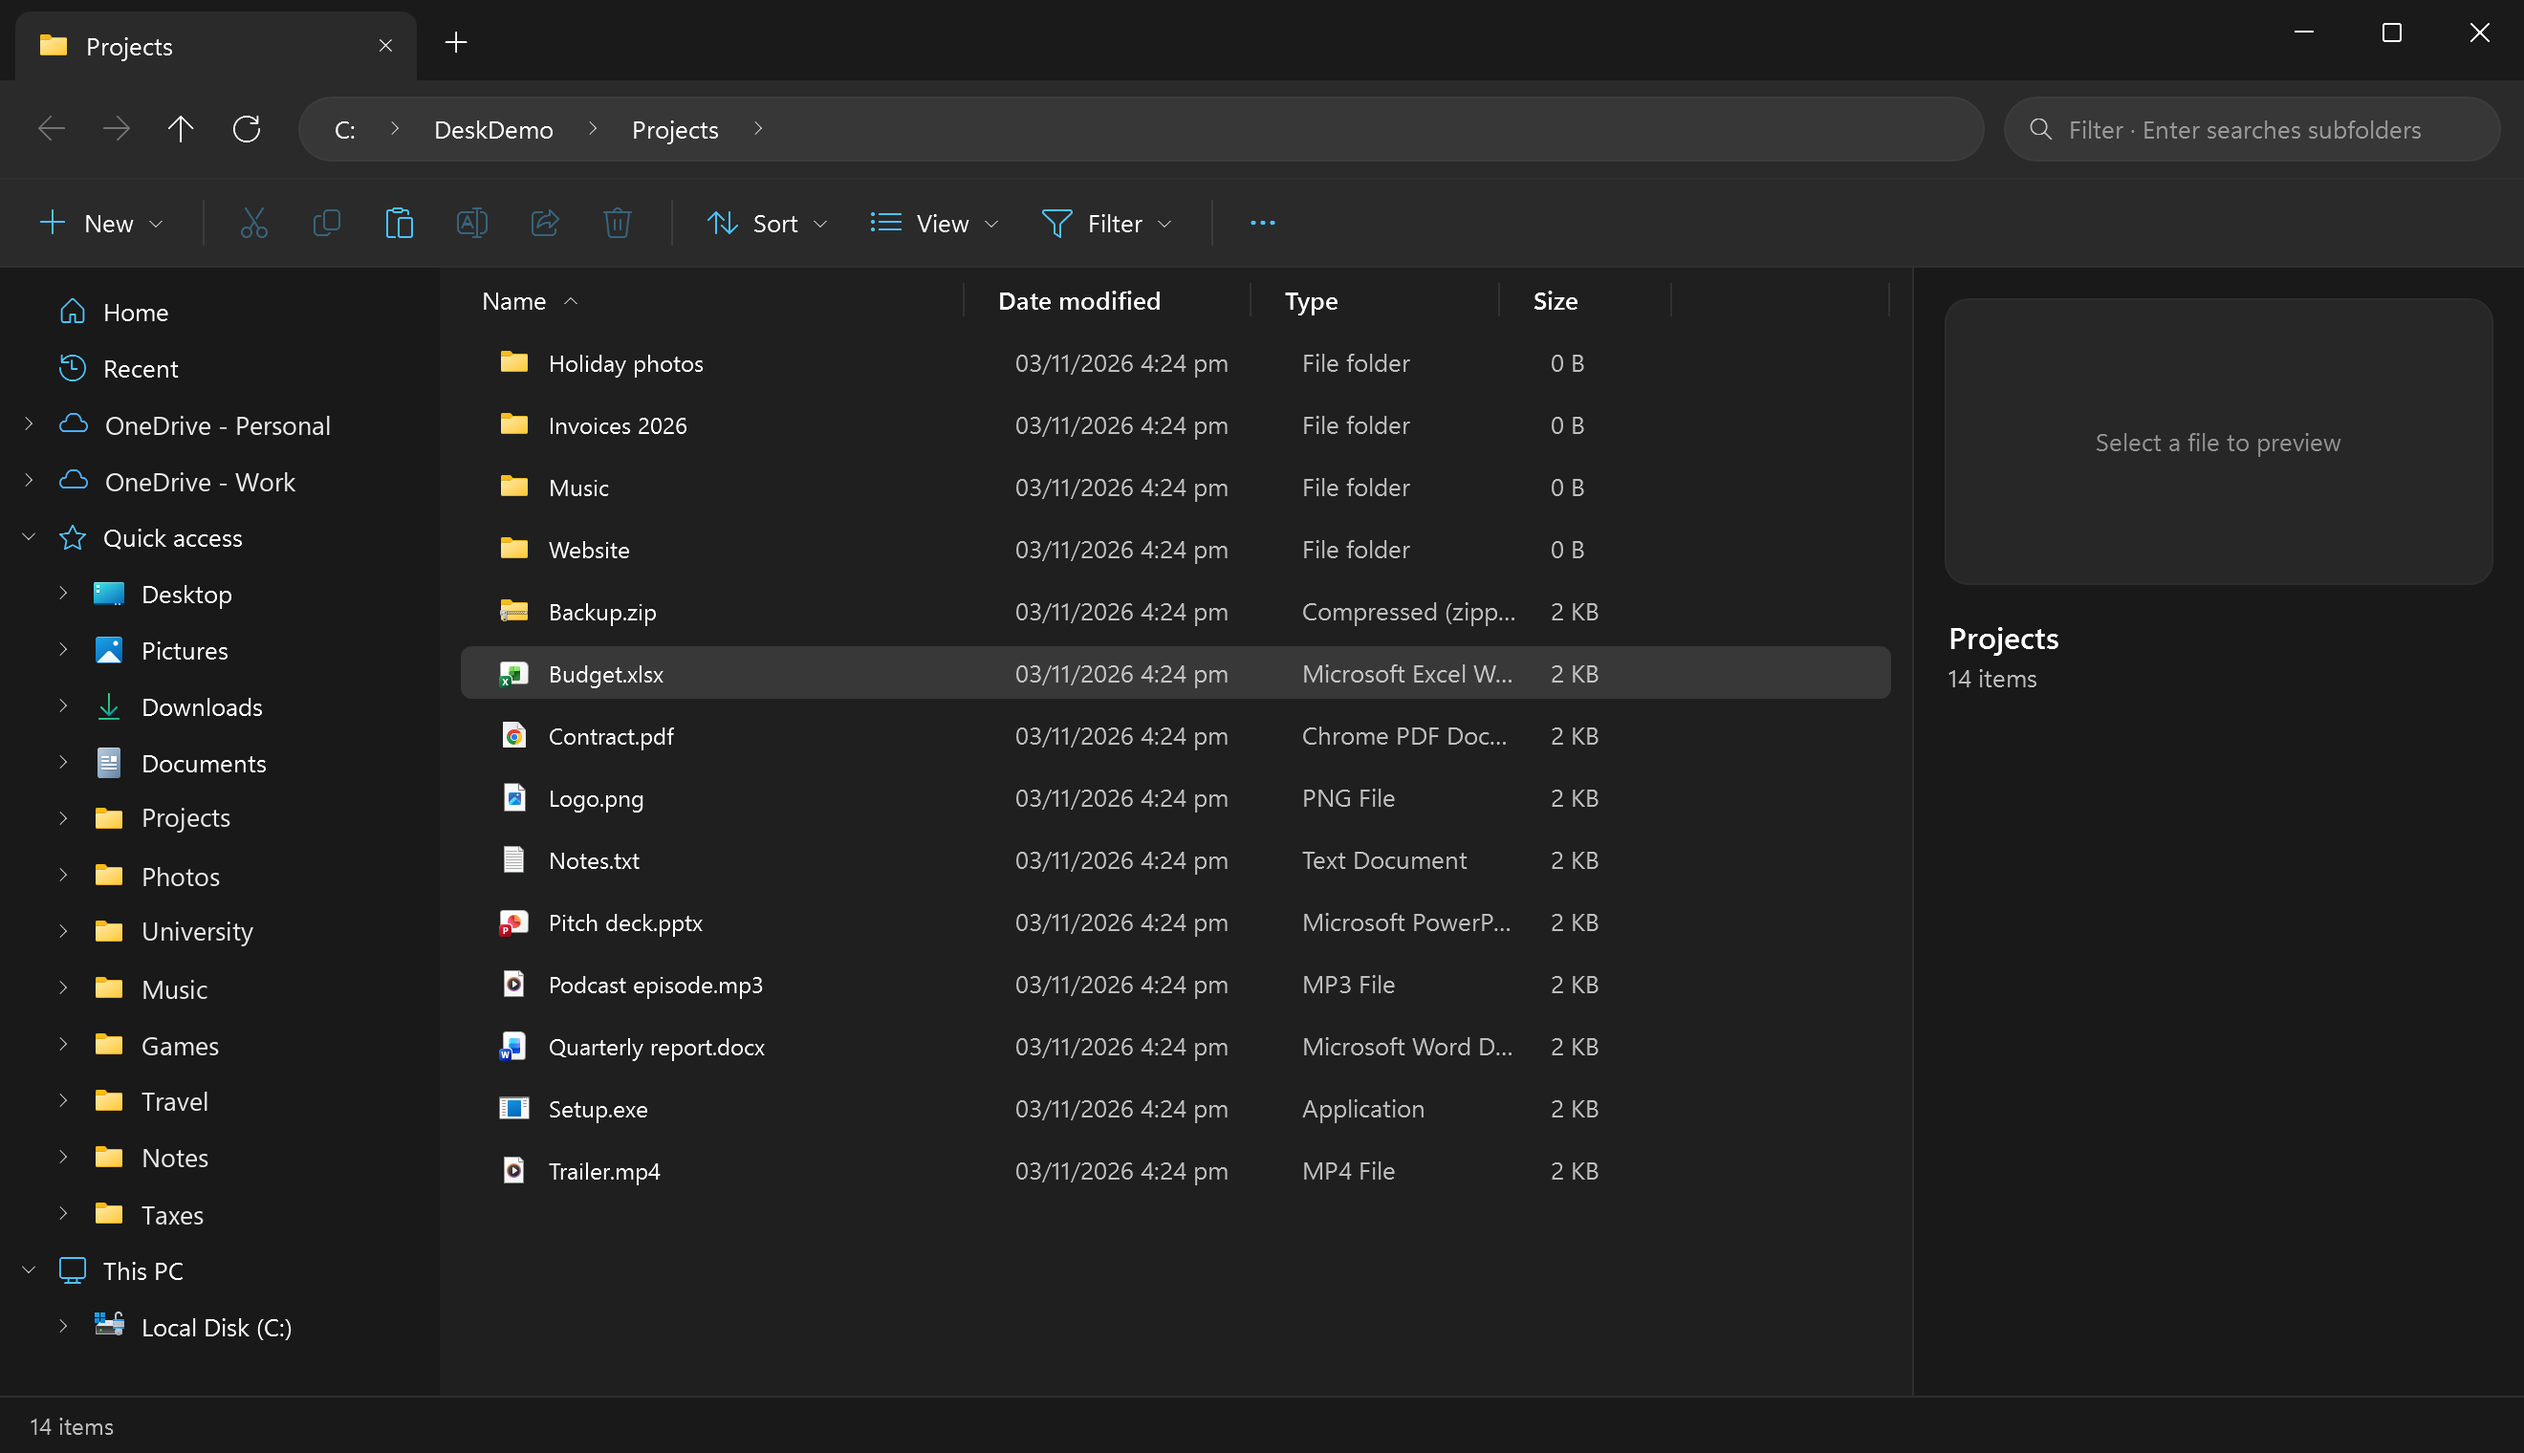
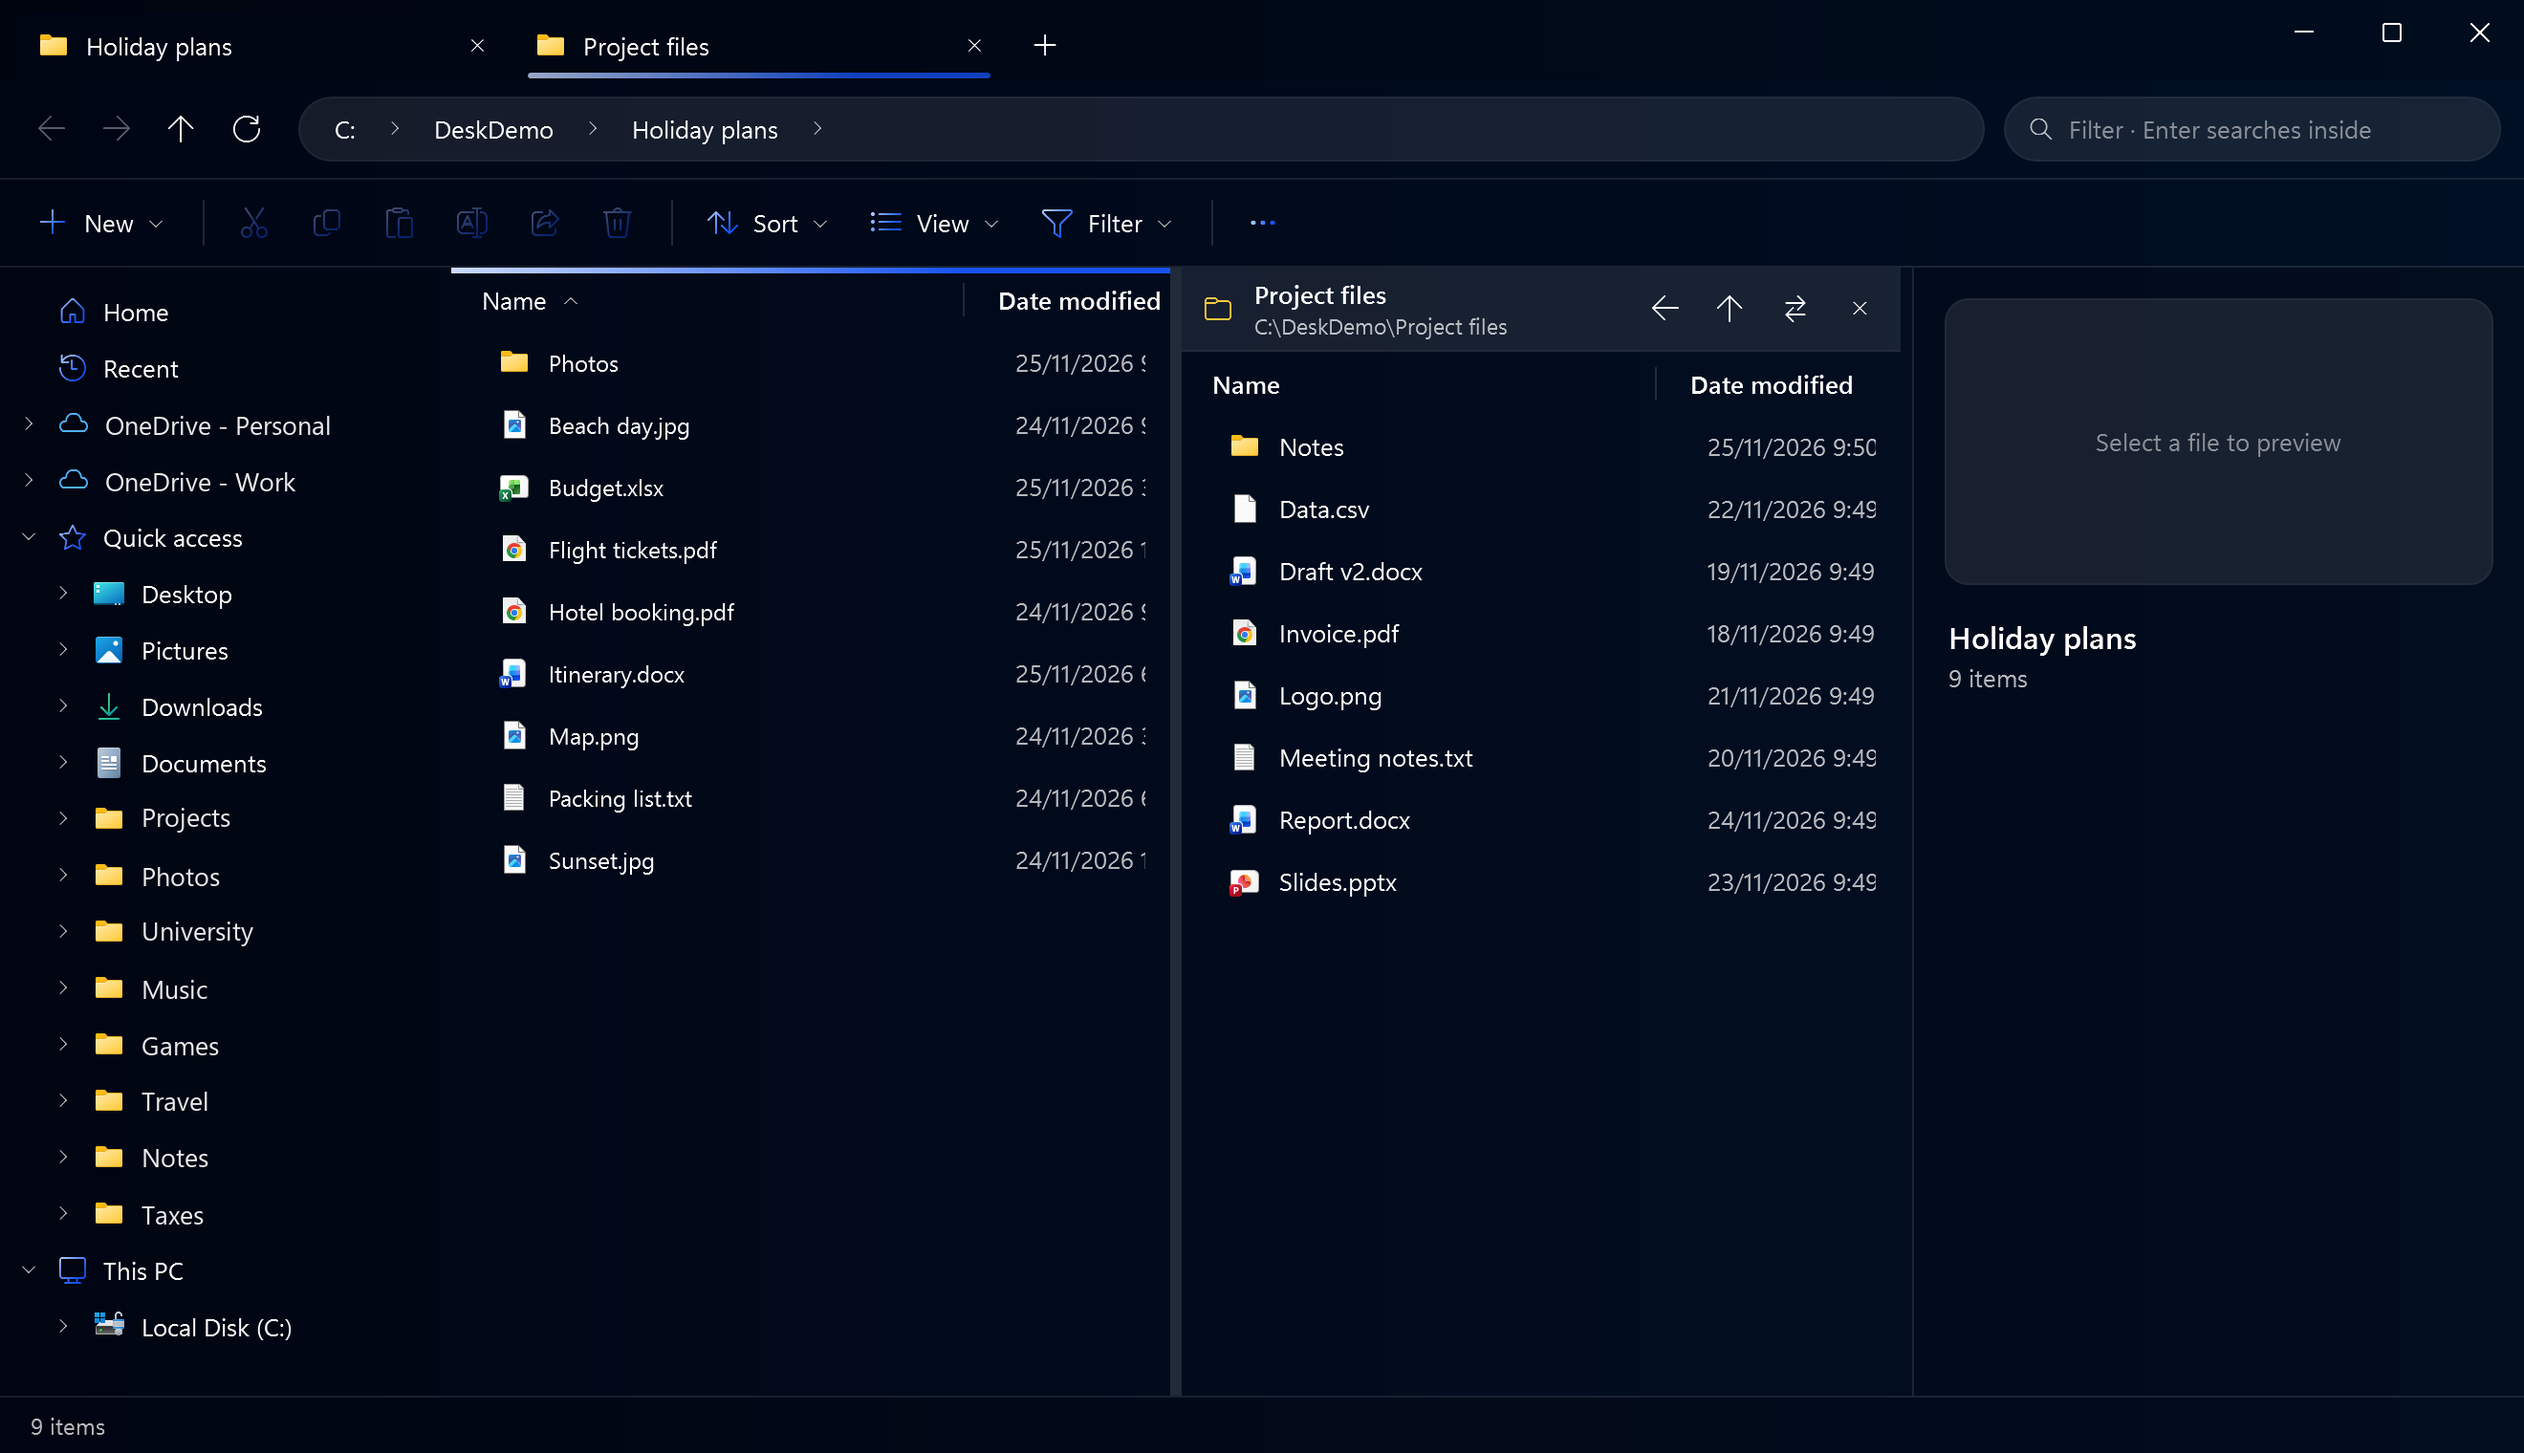
Website: new 4.0 pictures (Start, Quick Settings, DeskDrawer split view, DeskTune) and a "New in Desk 4.0" section

diff --git a/docs/index.html b/docs/index.html
@@ -98,6 +98,12 @@
   .bar { --accent: var(--bar); } .drawer { --accent: var(--drawer); } .tune { --accent: var(--tune); } .mode { --accent: var(--mode); }
   h2 .dot { color: var(--accent); }
   .inline-shot { margin-top: 28px; }
+  .new40 { padding-block: clamp(56px, 7vw, 96px); }
+  .new40 h3 { font: 800 clamp(26px, 3vw, 38px)/1.1 var(--display); margin: 0 0 8px; }
+  .new-grid { display: grid; grid-template-columns: repeat(auto-fit, minmax(min(100%, 300px), 1fr)); gap: 36px; align-items: start; margin-top: 28px; }
+  .new40 figure { margin: 0; } .new40 figure img { width: 100%; height: auto; display: block; }
+  .new40 figure.wide { grid-column: span 2; } @media (max-width: 760px) { .new40 figure.wide { grid-column: auto; } }
+  .new40 figcaption { margin-top: 14px; color: var(--muted); font-size: 15px; line-height: 1.5; } .new40 figcaption b { color: var(--ink); }
   html:not(.live) .story-grid { grid-template-columns: minmax(0, 64ch); }   /* no script: a plain stack, each app with its own screenshot */
   html:not(.live) .chapter { min-height: 0; padding-block: 56px; }
   .live .inline-shot, .stage { display: none; }
@@ -201,7 +207,7 @@
         <li>Native code, about 2.7&nbsp;MB. Windows' own taskbar comes back the moment DeskBar quits.</li>
         </ul>
         <a class="btn btn-solid" data-asset="DeskBar-Setup.exe" href="#install">Download DeskBar <span class="size">2.7 MB</span></a>
-        <img class="shot inline-shot" src="img/deskbar_start_public.png" alt="DeskBar's Start: a search box above a grid of pinned apps" width="1280" height="830" loading="lazy">
+        <img class="shot inline-shot" src="img/deskbar_start_public.png" alt="DeskBar's Start: a search box above a grid of pinned apps" width="1280" height="610" loading="lazy">
       </article>
       <article class="chapter drawer" id="deskdrawer" data-app="drawer">
         <div class="app-head"><img src="img/icon-deskdrawer.png" alt=""><div><h2>DeskDrawer<span class="dot">.</span></h2><p class="replaces">Replaces File Explorer</p></div></div>
@@ -217,7 +223,7 @@
         <li>Stays ready in the background after you close it, like File Explorer, so folders open in about half a second. It uses about 20–30 MB of memory while it waits, and you can switch that off.</li>
         </ul>
         <a class="btn btn-solid" data-asset="DeskDrawer-Setup.exe" href="#install">Download DeskDrawer <span class="size">1.7 MB</span></a>
-        <img class="shot inline-shot" src="img/deskdrawer.png" alt="DeskDrawer showing a project folder in details view with a sidebar of pinned folders" width="2640" height="1520" loading="lazy">
+        <img class="shot inline-shot" src="img/deskdrawer.png" alt="DeskDrawer in split view: two folders side by side in one window, with a sidebar of pinned folders" width="2640" height="1520" loading="lazy">
       </article>
       <article class="chapter tune" id="desktune" data-app="tune">
         <div class="app-head"><img src="img/icon-desktune.png" alt=""><div><h2>DeskTune<span class="dot">.</span></h2><p class="replaces">Switches off what you don't use</p></div></div>
@@ -249,14 +255,24 @@
       <div class="stage">
         <div class="stage-box">
           <div class="stage-glow"></div>
-          <div class="pane" data-state="on"><div class="duo"><img class="start" src="img/deskbar_start_public.png" alt="DeskBar's Start: a search box above a grid of pinned apps" width="1280" height="830"><img class="quick" src="img/deskbar_quick_public.png" alt="DeskBar's Quick Settings: Wi-Fi, Bluetooth, sound and brightness" width="720" height="892"></div></div>
-          <div class="pane" data-state="next" aria-hidden="true"><img class="shot" src="img/deskdrawer.png" alt="DeskDrawer showing a project folder in details view with a sidebar of pinned folders" width="2640" height="1520"></div>
+          <div class="pane" data-state="on"><div class="duo"><img class="start" src="img/deskbar_start_public.png" alt="DeskBar's Start: a search box above a grid of pinned apps" width="1280" height="610"><img class="quick" src="img/deskbar_quick_public.png" alt="DeskBar's Quick Settings: Wi-Fi, Bluetooth, sound and brightness" width="720" height="892"></div></div>
+          <div class="pane" data-state="next" aria-hidden="true"><img class="shot" src="img/deskdrawer.png" alt="DeskDrawer in split view: two folders side by side in one window, with a sidebar of pinned folders" width="2640" height="1520"></div>
           <div class="pane" data-state="next" aria-hidden="true"><img class="shot" src="img/desktune.png" alt="DeskTune with memory in use, presets, and a list of switches with what each one costs" width="1934" height="1569"></div>
           <div class="pane" data-state="next" aria-hidden="true"><img class="shot" src="img/deskmode.png" alt="DeskMode's panel with presets, power mode, refresh rate and brightness, next to the DeskMode page of DeskBar's settings" width="2640" height="1520"></div>
         </div>
         <nav class="rail" aria-label="The apps">
           <a href="#deskbar" aria-current="true">DeskBar</a><a href="#deskdrawer" aria-current="false">DeskDrawer</a><a href="#desktune" aria-current="false">DeskTune</a><a href="#deskmode" aria-current="false">DeskMode</a>
         </nav>
+      </div>
+    </div>
+  </section>
+
+  <section class="new40" id="new">
+    <div class="wrap">
+      <h3>New in Desk 4.0</h3>
+      <div class="new-grid">
+        <figure><img class="shot" src="img/deskbar_clipboard.png" alt="DeskBar's clipboard history: a pinned text and the most recent texts you copied, with a search box" width="720" height="880" loading="lazy"><figcaption><b>Clipboard history.</b> Press Win+V for the last 25 texts you copied. Pin what you use often, search, press Enter to paste. Copies from password managers are never kept.</figcaption></figure>
+        <figure class="wide"><img class="shot" src="img/desk_settings.png" alt="The Desk settings window on its Colours page: one colour for every app, or a different one for each" width="1720" height="1360" loading="lazy"><figcaption><b>One settings window.</b> Every gear button in every Desk app opens it, on the right page. Pick one colour for the whole suite, or a different one for each app.</figcaption></figure>
       </div>
     </div>
   </section>
